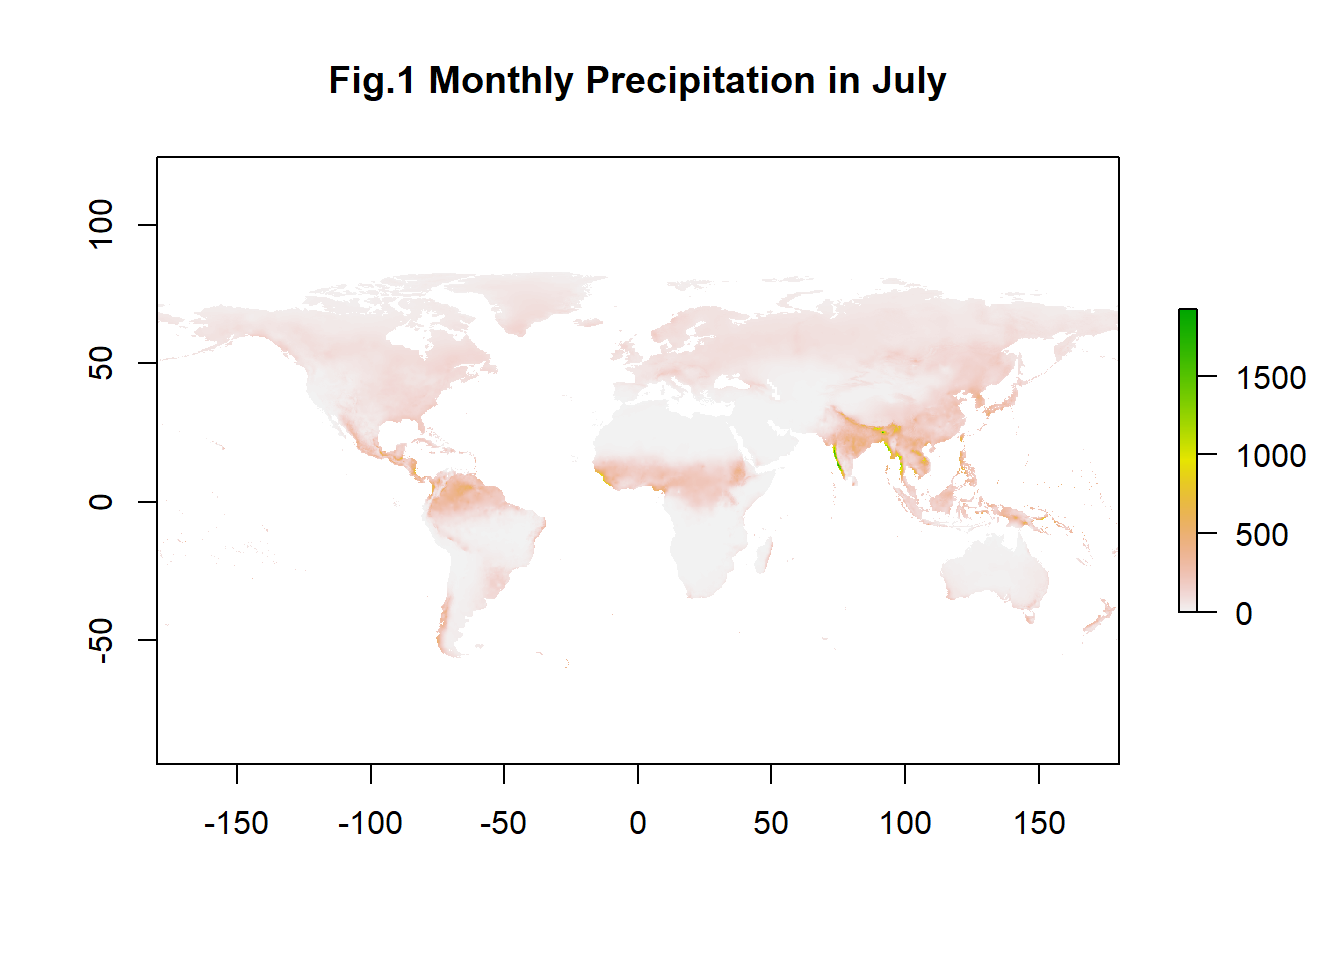
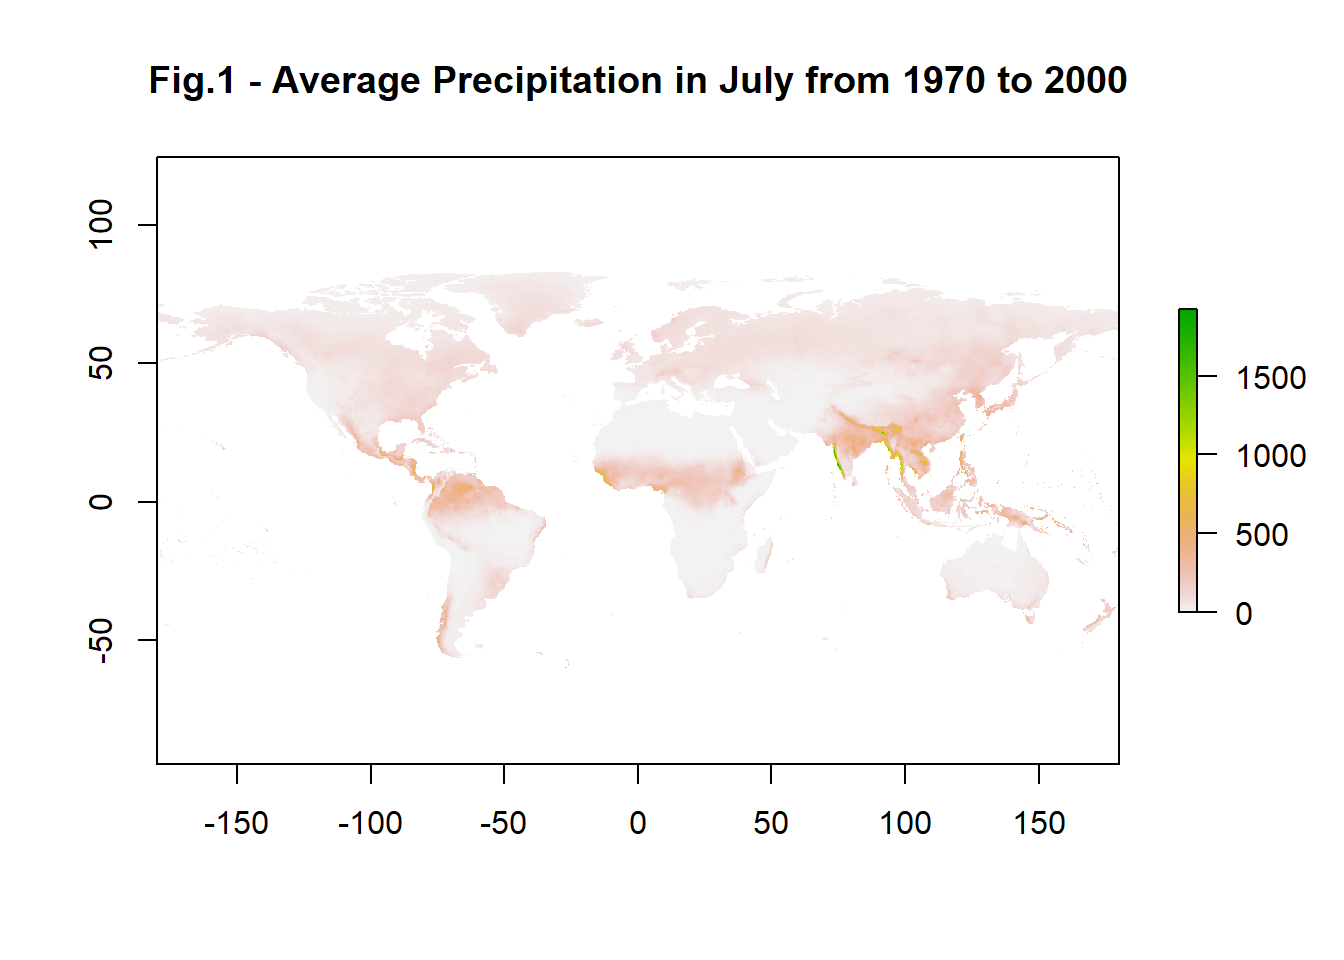
fix plot titles in climate indices gif post

Changed region(s): [[0.0938, 0.0625, 0.8438, 0.125]]

diff --git a/content/post/2021-07-14-climate-indices-gif/index.md b/content/post/2021-07-14-climate-indices-gif/index.md
@@ -53,11 +53,11 @@ Of course, some of the WorldClim project data is available through the raster pa
 
 The `getData` function, with the parameters used in the chunk above, downloads a RasterStack with 12 layers!
 
-From the [documentation](https://www.worldclim.org/data/worldclim21.html):
+From the package documentation:
 
 *"The data is available at the four spatial resolutions, between 30 seconds (\~1 km2) to 10 minutes (\~340 km2). Each download is a "zip" file containing 12 GeoTiff (.tif) files, one for each month of the year (January is 1; December is 12)."* (Fick, 2017)
 
-Note that, for the gif at the beginning of this post, we used the per month data sets available at <https://www.worldclim.org/data/monthlywth.html>. 
+Note that, for the gif at the beginning of this post, we used [historical monthly weather](https://www.worldclim.org/data/monthlywth.html) data not available through the raster package. . 
 
 <br>
 
@@ -69,12 +69,12 @@ Let's visualize one of the layers:
 
     raster::plot(wc_prec_series$prec7, 
                  
-                 main = "Fig.1 Monthly Precipitation in July")
+                 main = "Fig.1 - Average Precipitation in July from 1970 to 2000")
 ```
 
 <img src="{{< blogdown/postref >}}index_files/figure-html/unnamed-chunk-2-1.png" width="672" />
 
-We can see, from the values parameter, that some regions achieved more than 1500 mm average precipitation in July (*prec7*) for the entire period 1970 to 2000.
+We can see, from the values parameter, that some regions achieved more than 1500 mm average precipitation in July (*prec7*).
 
 Note that the raster package also comes with a `animate` function built in:
 
@@ -84,7 +84,9 @@ Note that the raster package also comes with a `animate` function built in:
                     
                     n = 1, # number of loops
                     
-                    main = paste("Monthly Precipitation for", month.name)) # title for each layer
+                    main = paste("Average Precipitation in", 
+                                 
+                                 month.name, "from 1970 to 2000")) 
 ```
 
 The `animate` function takes a RasterStack or a RasterBrick and generates a gif using each layer as frames. Even though this is a very easy to use function, it lacks more options for editing and exporting.
@@ -106,7 +108,7 @@ The next step consists of cropping the data to the specified *loi*, using the sh
 
 
 ```r
-extent(india)
+    extent(india)
 ```
 
 ```
@@ -124,7 +126,7 @@ extent(india)
 
 
 ```r
-plot(india_wc_prec, main = "Fig.2 Monthly Precipitation - India")
+    plot(india_wc_prec, main = "Fig.2 - Average Monthly Precipitation - India")
 ```
 
 <img src="{{< blogdown/postref >}}index_files/figure-html/unnamed-chunk-6-1.png" width="672" />
